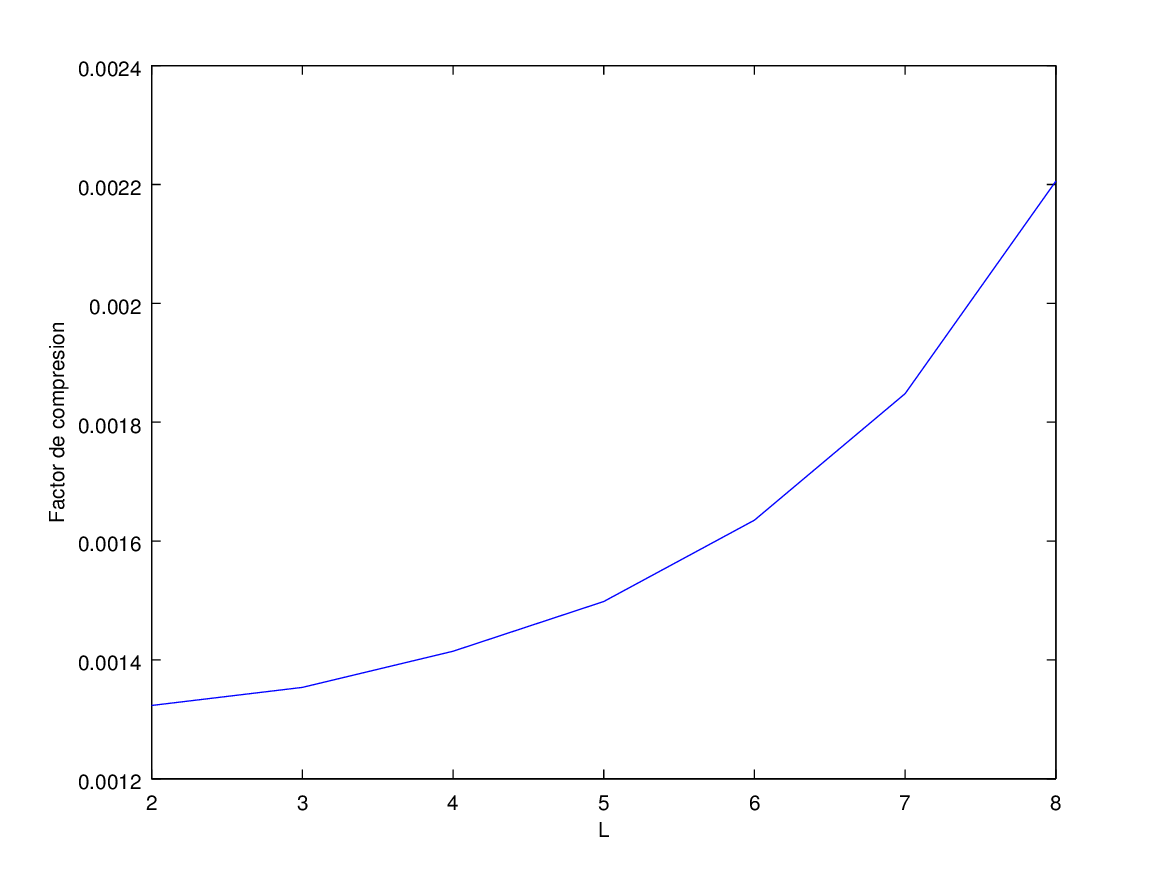
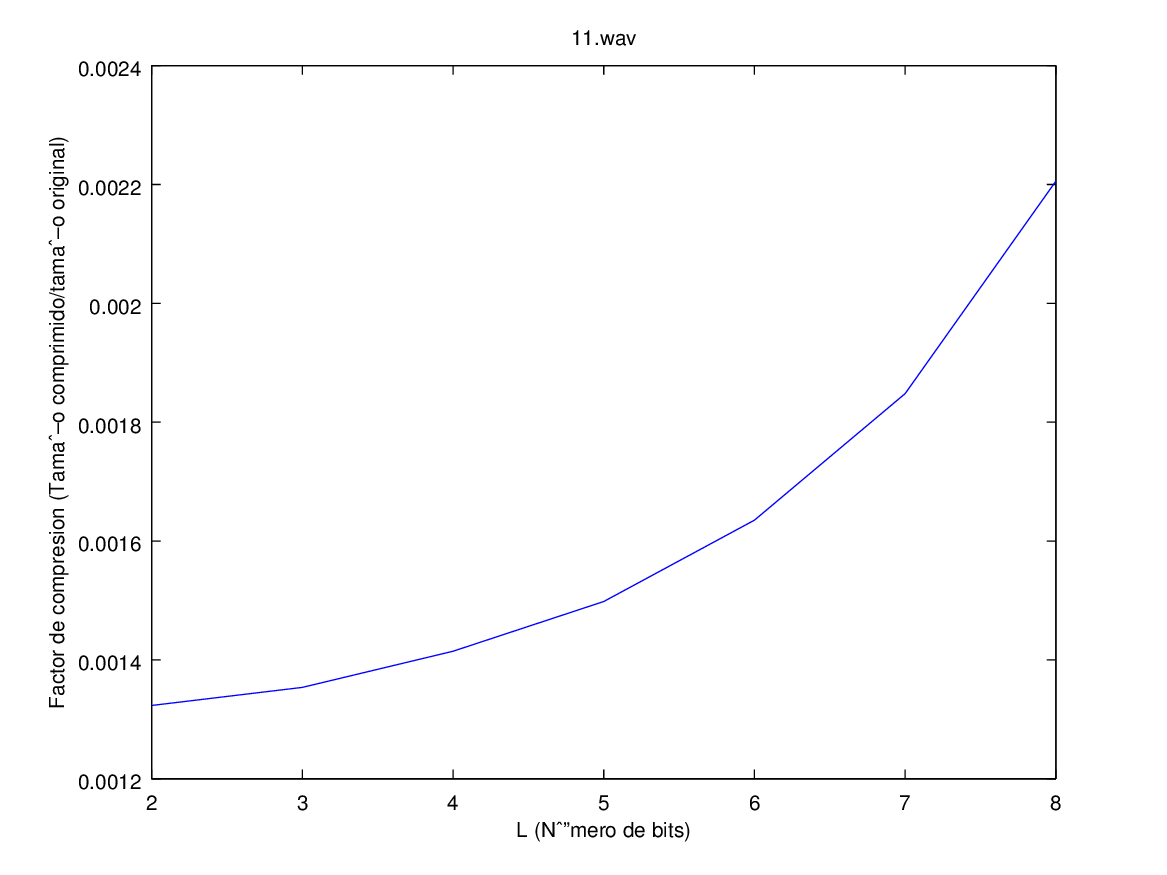
Fixed plots

Changed region(s): [[0.0308, 0.1543, 0.0617, 0.8023], [0.4319, 0.9257, 0.5861, 0.9566], [0.4936, 0.0309, 0.5553, 0.0617]]

diff --git a/src/plot_fixed_epsilon.m b/src/plot_fixed_epsilon.m
@@ -21,14 +21,16 @@ function plot_fixed_epsilon(wav_file, epsilon, min_L, max_L)
   
   %Make the png plot
   plot(L, distortions);
-  xlabel("L");
-  ylabel("Distorcion");
+  title(strcat(wav_file, ".wav"));
+  xlabel("L (Número de bits)");
+  ylabel("Distorcion (Distancia cuadratica media entre original y comprimida)");
   file_name = strcat(strcat("../resources/plots/",wav_file),"_bits_distortion.png");
   print(file_name, "-dpng");
   
   plot(L, compressions);
-  xlabel("L");
-  ylabel("Factor de compresion");
+  title(strcat(wav_file, ".wav"));
+  xlabel("L (Número de bits)");
+  ylabel("Factor de compresion (Tamaño comprimido/tamaño original)");
   file_name = strcat(strcat("../resources/plots/",wav_file),"_bits_compression.png");
   print(file_name, "-dpng");
   

diff --git a/src/plot_fixed_bits.m b/src/plot_fixed_bits.m
@@ -22,14 +22,16 @@ function plot_fixed_bits(wav_file, min_epsilon, steps, max_epsilon, L)
   
   %Make the png plot
   plot(epsilons, distortions);
+  title(strcat(wav_file, ".wav"));
   xlabel("Epsilons");
-  ylabel("Distorcion");
+  ylabel("Distorcion (Distancia cuadratica media entre original y comprimida)");
   file_name = strcat(strcat("../resources/plots/",wav_file),"_epsi_distortion.png");
   print(file_name, "-dpng");
   
   plot(epsilons, compressions);
+  title(strcat(wav_file, ".wav"));
   xlabel("Epsilons");
-  ylabel("Factor de compresion");
+  ylabel("Factor de compresion (Tamaño comprimido/tamaño original)");
   file_name = strcat(strcat("../resources/plots/",wav_file),"_epsi_compression.png");
   print(file_name, "-dpng");
   
